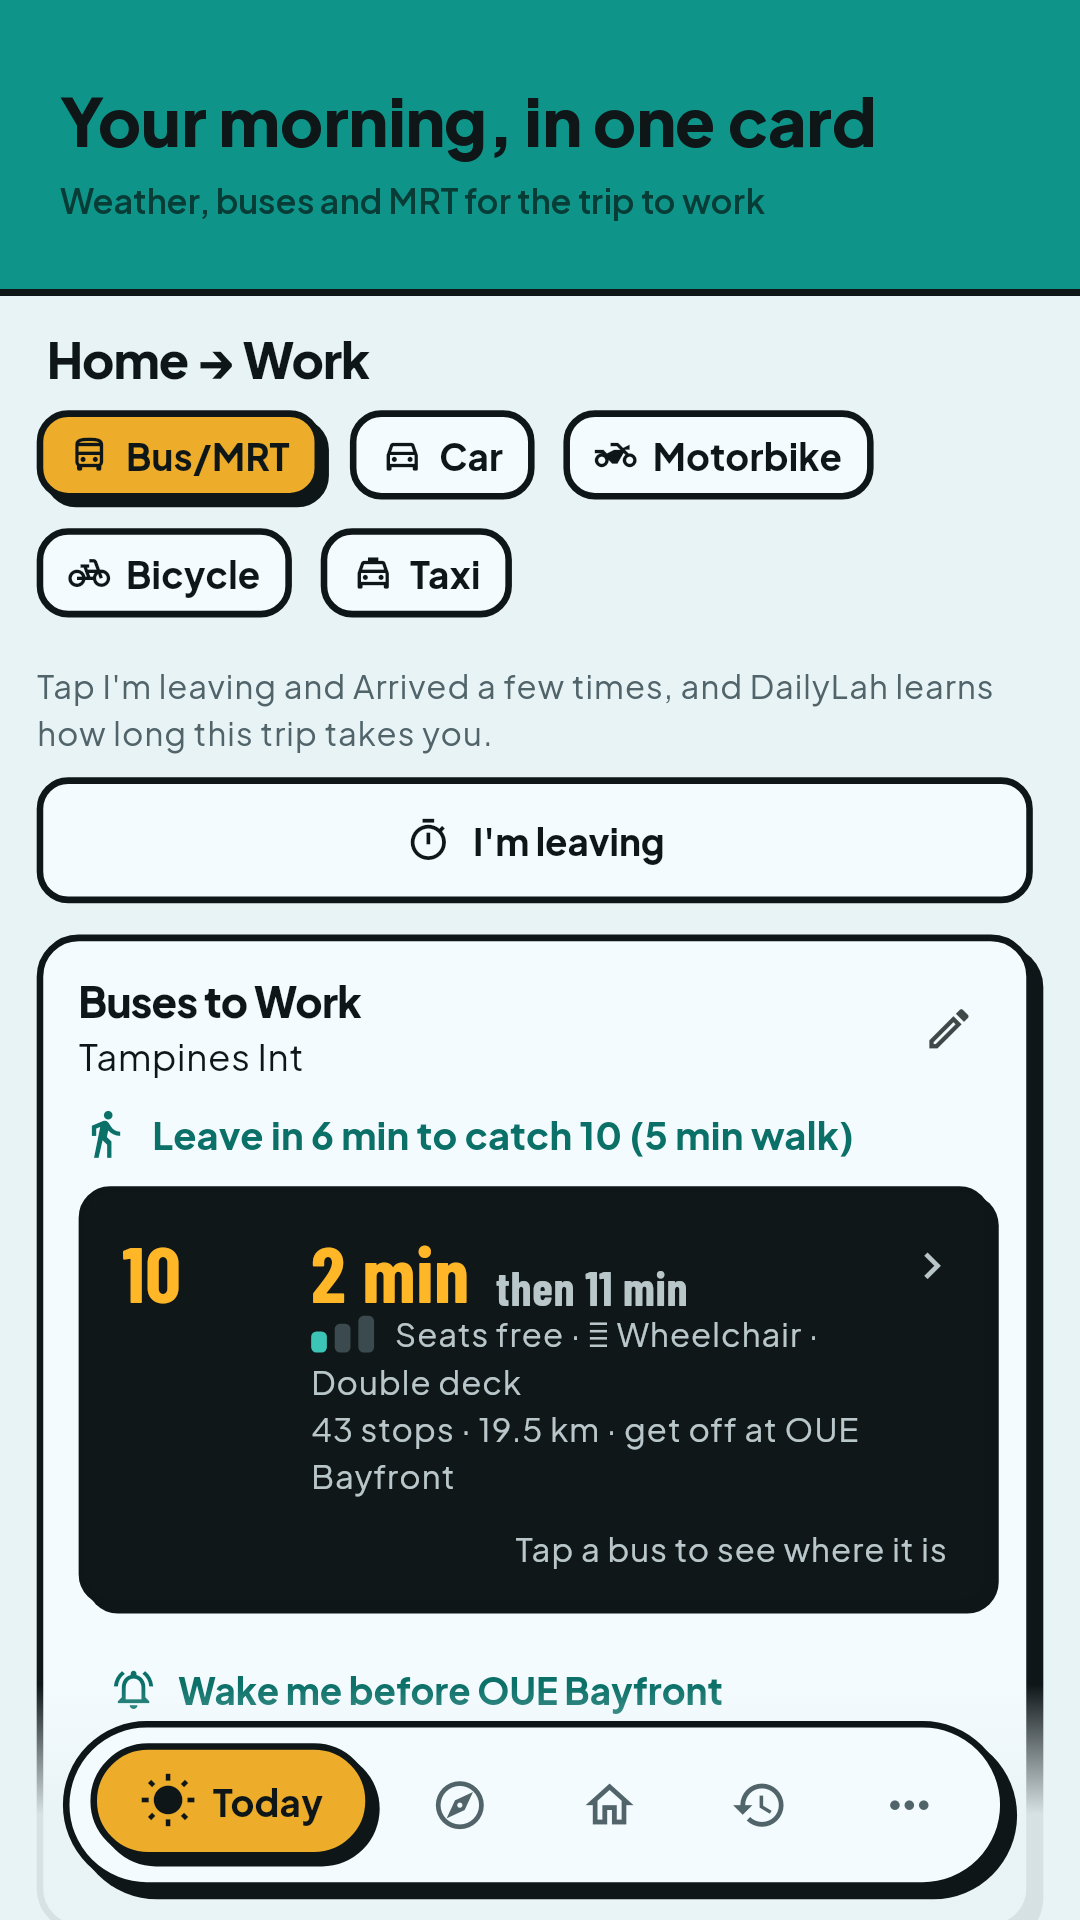
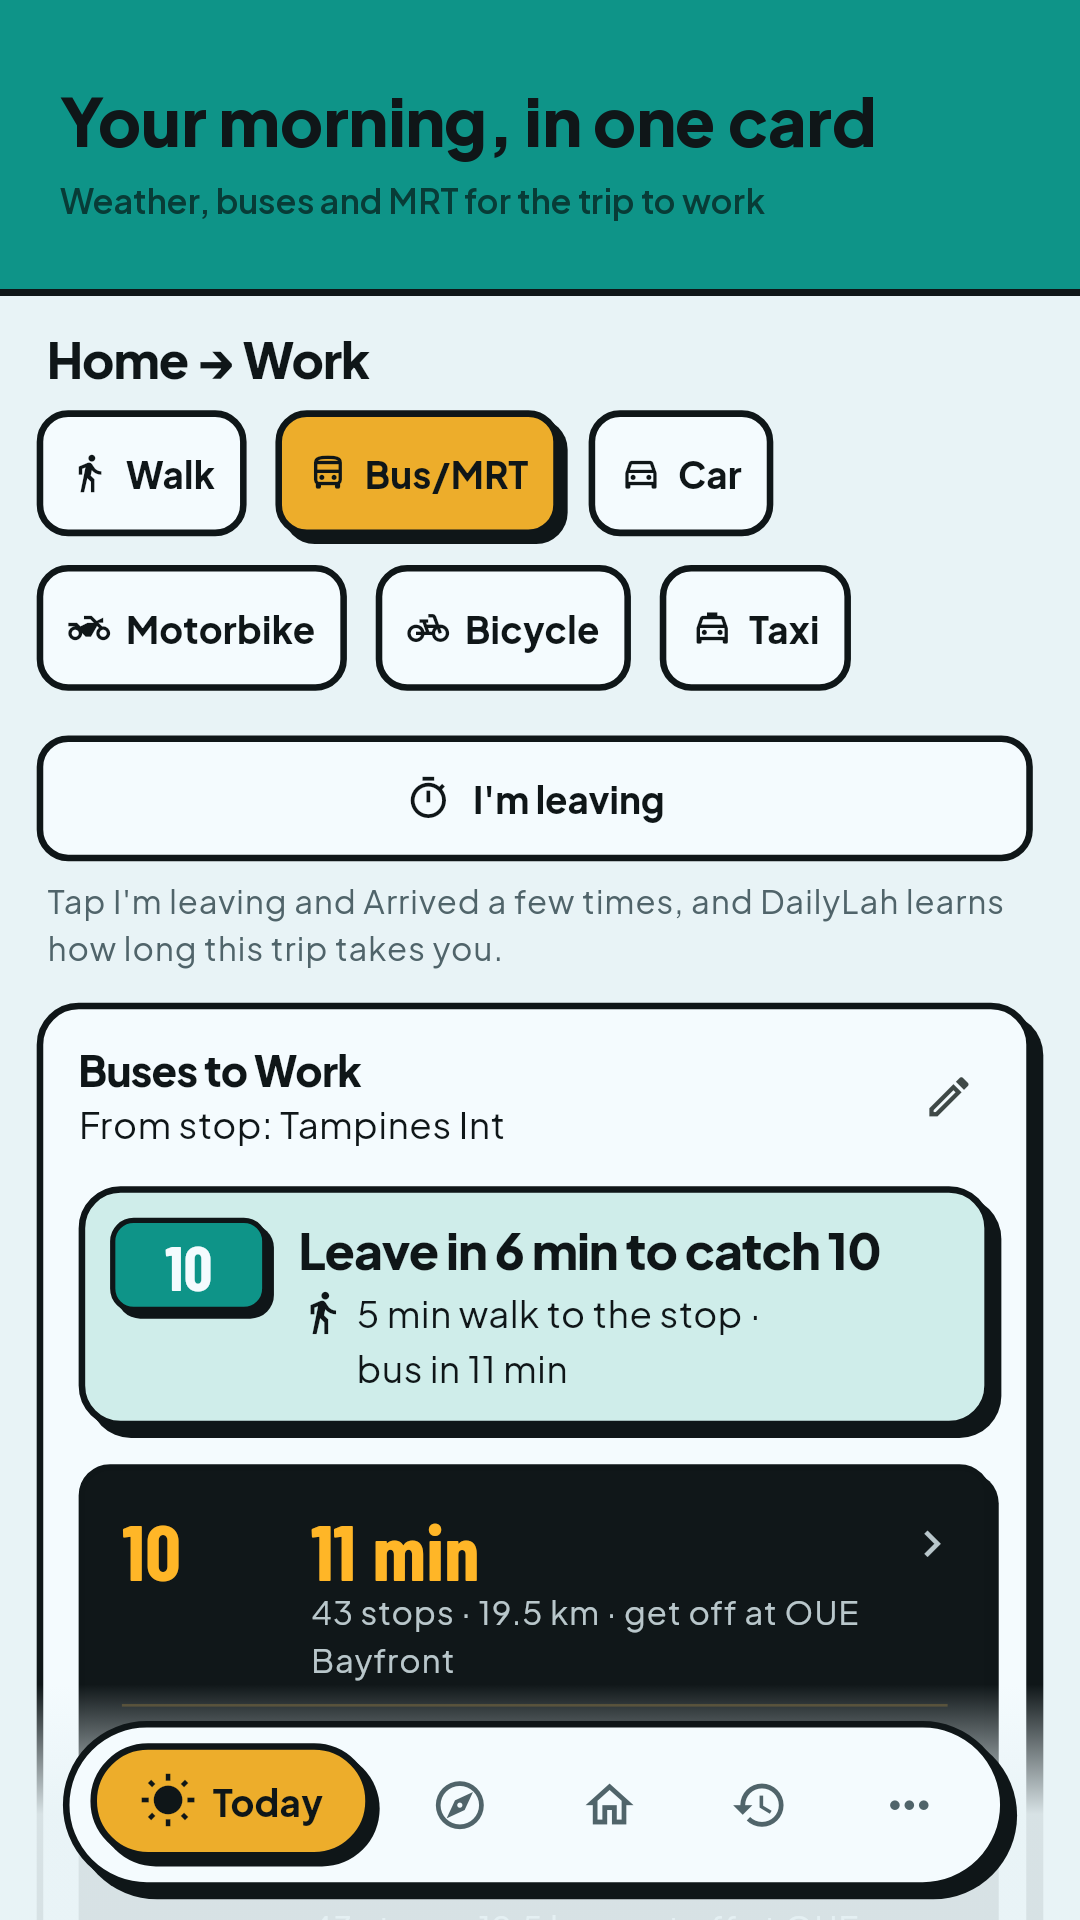
Pin the Flutter SDK in CI to 3.47.9 (#162)
Flutter 3.50.0 became the stable release on 11 Nov 2026 and every workflow installed
"channel: stable": `flutter pub get --enforce-lockfile` then fails (the SDK pins
test_api 0.7.14, the lockfile has 0.7.12), and with an updated lockfile the analyzer
reports 39 deprecation infos for package:flutter/material.dart, which are fatal here.

Every workflow that installs Flutter now names the version beside the channel. An SDK
upgrade is a PR of its own (version, lockfile, analyzer changes); the emulator upgrade
job may fail once in that PR.

The screenshots workflow ran on the branch (its file changed) and rendered the Play
Store screenshots again: they now show the larger-text layout of 2.3.0 and the Walk
chip.

Changed region(s): [[0.0306, 0.1875, 0.9778, 0.9062]]

diff --git a/AGENTS.md b/AGENTS.md
@@ -78,7 +78,14 @@ built from data.gov.sg (NEA, HDB, CEA) and LTA DataMall. Tourist mode is out of 
 
 ## CI security (docs/QA.md, "Security scans")
 - `app/pubspec.lock` is committed and every workflow runs `flutter pub get --enforce-lockfile`, so
-  builds are reproducible and osv-scanner sees the exact versions. Backend: direct dependencies
+  builds are reproducible and osv-scanner sees the exact versions. The Flutter SDK is pinned too
+  (`flutter-version:` beside `channel: stable` in every workflow that installs it, one version for
+  all): a new stable release changes the SDK-pinned packages in the lockfile and can add analyzer
+  infos, which are fatal. An SDK upgrade is its own PR: the version in every workflow, `pubspec.lock`
+  from `flutter pub get` with that SDK, and whatever the new analyzer asks for. In that PR the emulator
+  `upgrade` job may fail once: it builds the previous version with its own lockfile
+  (`scripts/emulator_upgrade.sh`), which the new SDK may not accept. Quote a two-part version
+  (`"3.50"`). Backend: direct dependencies
   live in `backend/requirements*.in`; `requirements*.txt` are the full locked trees with hashes,
   made with `uv pip compile --python-version 3.12 --generate-hashes <file>.in -o <file>.txt`
   (Render installs `requirements.txt`). A dependency change updates the lockfile in the same PR.

diff --git a/CLAUDE.md b/CLAUDE.md
@@ -78,7 +78,14 @@ built from data.gov.sg (NEA, HDB, CEA) and LTA DataMall. Tourist mode is out of 
 
 ## CI security (docs/QA.md, "Security scans")
 - `app/pubspec.lock` is committed and every workflow runs `flutter pub get --enforce-lockfile`, so
-  builds are reproducible and osv-scanner sees the exact versions. Backend: direct dependencies
+  builds are reproducible and osv-scanner sees the exact versions. The Flutter SDK is pinned too
+  (`flutter-version:` beside `channel: stable` in every workflow that installs it, one version for
+  all): a new stable release changes the SDK-pinned packages in the lockfile and can add analyzer
+  infos, which are fatal. An SDK upgrade is its own PR: the version in every workflow, `pubspec.lock`
+  from `flutter pub get` with that SDK, and whatever the new analyzer asks for. In that PR the emulator
+  `upgrade` job may fail once: it builds the previous version with its own lockfile
+  (`scripts/emulator_upgrade.sh`), which the new SDK may not accept. Quote a two-part version
+  (`"3.50"`). Backend: direct dependencies
   live in `backend/requirements*.in`; `requirements*.txt` are the full locked trees with hashes,
   made with `uv pip compile --python-version 3.12 --generate-hashes <file>.in -o <file>.txt`
   (Render installs `requirements.txt`). A dependency change updates the lockfile in the same PR.
